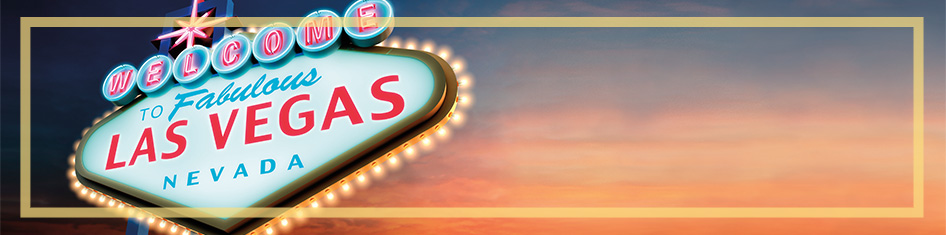
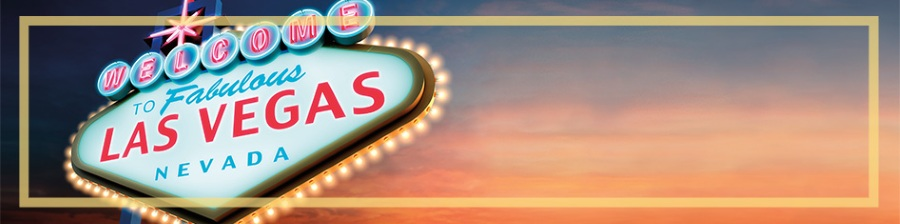
Done with Home page + countdown till conference

diff --git a/Final/Styles.css b/Final/Styles.css
@@ -122,3 +122,13 @@ h1{
     padding: 10px 20px 5px 20px;
     font-size: large;
 }
+
+.countdown {
+    background-image: url('images/lv_banner.jpg');
+    background-repeat: no-repeat;
+    width:890px;
+    height:250px;
+    padding: 85px 470px; 
+    margin-left: auto;
+    margin-right: auto;
+}

diff --git a/Final/Home.aspx.cs b/Final/Home.aspx.cs
@@ -9,6 +9,30 @@ public partial class _GIAbout : System.Web.UI.Page
 {
     protected void Page_Load(object sender, EventArgs e)
     {
-
+        if (DaysUntilConference != null)
+        {
+            int daysUntilc = theDaysUntilConference();
+            switch (daysUntilc)
+            {
+                case 0:
+                    DaysUntilConference.Text = "Conference starts Today ;)!";
+                    break;
+                case 1:
+                    DaysUntilConference.Text = "Tomorrow is the Conference!";
+                    break;
+                default:
+                    DaysUntilConference.Text = string.Format(
+                        "There are only {0} days left!", daysUntilc);
+                    break;
+            }
+        }
+    }
+    private int theDaysUntilConference()
+    {
+        DateTime conference = new DateTime(DateTime.Today.Year, 7, 19);
+        if (DateTime.Today > conference)
+            conference = conference.AddYears(1);
+        TimeSpan ts = conference - DateTime.Today;
+        return ts.Days;
     }
 }
